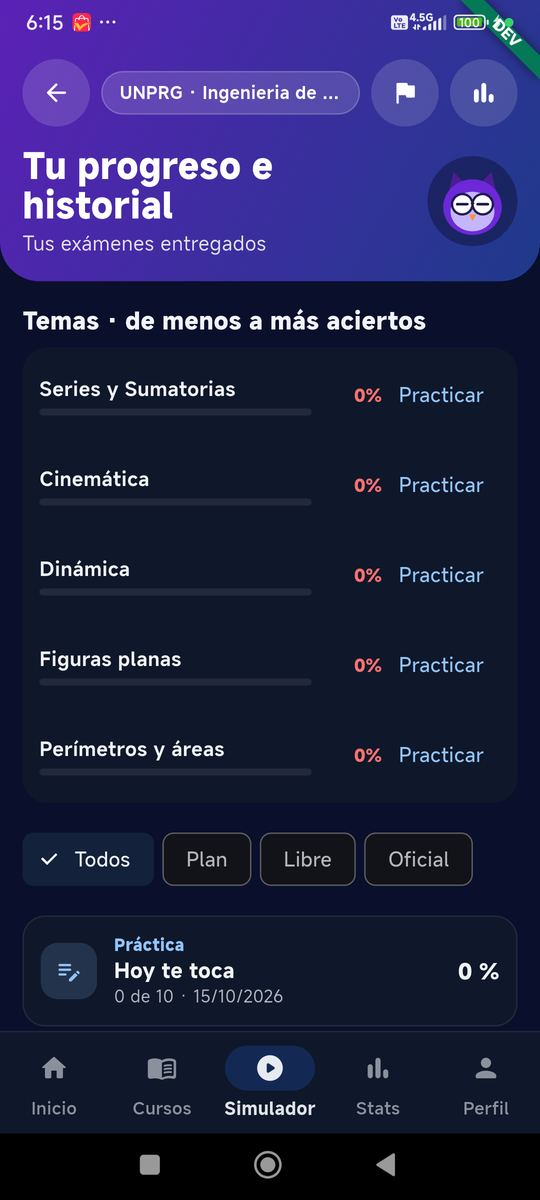
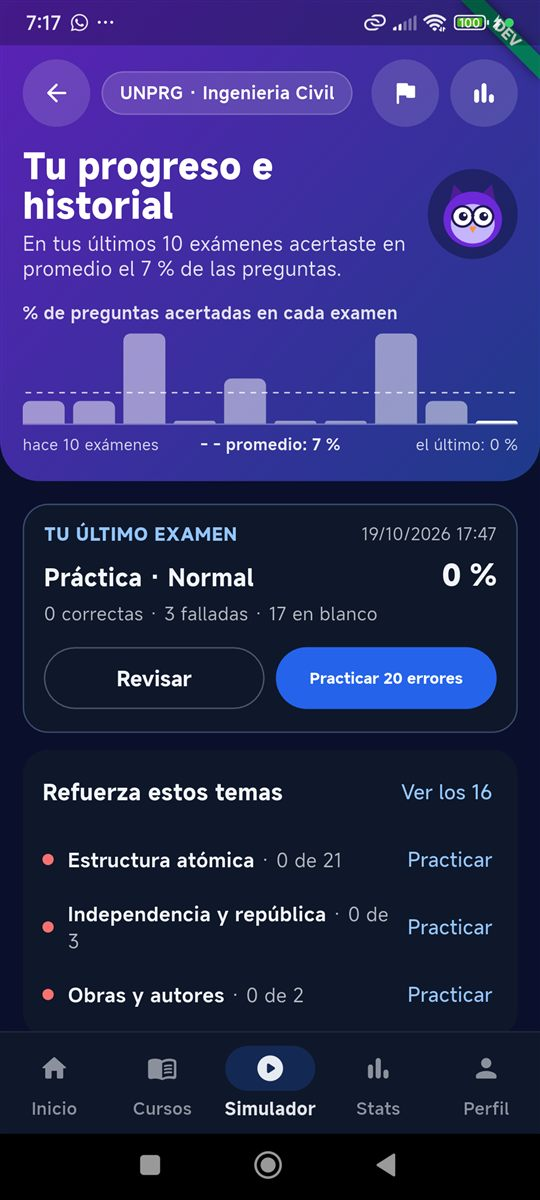
Historial del Simulador: totales exactos y ajuste «Exámenes en el historial»
- submitExamAttempt guarda simulatorSummary/current.totals (agregación la
  primera vez, incrementos después; totalsUpdate) con pruebas.
- SimulatorSettings.historyLimit (5 a 30, 10) con descripción; se corrige la
  de «Resultados que baja la app».
- Contrato del Simulador, PROGRESO, guía (capturas nuevas) y arquitectura.

diff --git a/docs/guias/guia_app.html b/docs/guias/guia_app.html
@@ -661,7 +661,7 @@ flowchart LR
 
 <div class="screen two" id="sim-despues">
   <figure><img src="img/sim-revision.jpg" alt="Revisión por pregunta con filtros, mapa y una pregunta fallada abierta"><figcaption>Revisión por pregunta: «Falladas 5 · En blanco 14 · Correctas 1 · Todas», el mapa de casillas y la pregunta 1 abierta («Marcaste A · era E», «TU RESPUESTA» en rojo).</figcaption></figure>
-  <figure><img src="img/sim-progreso.jpg" alt="Historial"><figcaption>Tu progreso e historial.</figcaption></figure>
+  <figure><img src="img/sim-progreso.jpg" alt="Tu progreso e historial: promedio, gráfico, último examen y temas a reforzar"><figcaption>Tu progreso e historial al abrir: promedio de los últimos 10, gráfico, «Tu último examen» y «Refuerza estos temas».</figcaption></figure>
   <div class="body">
     <h3>Revisión, Mis errores, historial y estadísticas</h3>
     <ul>
@@ -669,11 +669,15 @@ flowchart LR
       <li><b>Practicar mis errores</b>: examen «Mis errores» con lo que fallaste o dejaste en blanco, hasta 100 preguntas, mezcladas y en la misma versión. Lleva reloj (90 s por pregunta) solo si el original lo tenía.</li>
       <li><b>Tu progreso e historial</b>:
         <ul>
-          <li>«Temas · de menos a más aciertos»: hasta 8 temas con % y «Practicar», que abre la práctica con ese curso y tema.</li>
-          <li>Filtros «Todos / Plan / Libre / Oficial» y cada examen con «{c} de {t} · fecha» y su puntaje o %. Las fichas todavía no se pueden tocar.</li>
+          <li>Cabecera: el búho y «En tus últimos {n} exámenes acertaste en promedio el {p} % de las preguntas.» ({n} hasta 10). Con 2 o más exámenes, un gráfico «% de preguntas acertadas en cada examen»: una barra por examen (del más antiguo al último, resaltado), la línea punteada del promedio y «hace {n} exámenes · - - promedio: {p} % · el último: {u} %». La barra más alta llena el gráfico. La cabecera se va con el desplazamiento.</li>
+          <li>«TU ÚLTIMO EXAMEN»: título, fecha, % y «{c} correctas · {f} falladas · {b} en blanco»; «Revisar» abre su revisión y «Practicar {n} errores» (si hubo falladas o en blanco) abre «Mis errores» sin reloj.</li>
+          <li>«Refuerza estos temas»: los 3 temas con menos aciertos («{c} de {r}») con «Practicar»; «Ver los {n}» muestra todos y «Ver menos» los vuelve a ocultar.</li>
+          <li>Totales de todos tus exámenes: «exámenes», «preguntas» y «de acierto» (exactos aunque tengas miles: los suma el servidor).</li>
+          <li>«Historial · últimos {n}» · «toca para revisar»: {n} lo fija el admin («Exámenes en el historial», 10 de fábrica) <span class="chip info">ADMIN</span>. Filtros «Todos / Plan / Libre / Oficial» y cada examen con «{c} de {t} · fecha y hora» y su puntaje o %; tocarlo muestra «Abriendo la revisión…» con el búho y abre su revisión. Los exámenes más antiguos no se borran: siguen contando en los totales y Stats.</li>
           <li>Arriba, la bandera «Editar meta» y «Ver estadísticas».</li>
           <li>Vacío: «Aún no entregas exámenes en el Simulador.».</li>
         </ul></li>
+      <li style="list-style:none"><figure style="max-width:220px"><img src="img/sim-historial.jpg" alt="Totales e historial de los últimos 10 exámenes"><figcaption>Al bajar: totales y «Historial · últimos 10»; cada examen abre su revisión.</figcaption></figure></li>
       <li><b>Stats</b>: precisión, preguntas y simulacros por periodo, y cursos fuertes y por mejorar, calculados con tus resultados del servidor. Vacío: «Aún no hay estadísticas · Rinde tu primer simulacro…» con «Ir al Simulador».</li>
     </ul>
   </div>
@@ -1067,13 +1071,14 @@ flowchart LR
   <tr><td class="num">9</td><td>Las marcas y la pizarra se pierden al pausar. <s>Un examen del Simulador no se puede retomar después de cerrar la app.</s> Corregido: «Tienes un examen sin terminar · Retomar».</td><td>Simulador</td></tr>
   <tr><td class="num">10</td><td>Si falla la entrega automática al acabarse el tiempo, no hay forma de reintentar.</td><td>Simulador</td></tr>
   <tr><td class="num">11</td><td><s>«Hoy te toca» crea un examen nuevo en cada toque: tras un timeout puede quedar uno duplicado.</s> Corregido: mientras la sesión de hoy siga abierta, se devuelve la misma.</td><td>Simulador</td></tr>
-  <tr><td class="num">12</td><td>Las fichas del historial no se pueden tocar; la meta solo se edita desde el historial.</td><td>Simulador</td></tr>
+  <tr><td class="num">12</td><td><s>Las fichas del historial no se pueden tocar;</s> corregido: cada examen abre su revisión. La meta solo se edita desde el historial.</td><td>Simulador</td></tr>
   <tr><td class="num">13</td><td>El recordatorio diario solo guarda la hora: aún no hay notificaciones.</td><td>Simulador</td></tr>
 </table></div>
 
 <!-- ============================================================ CAMBIOS -->
 <h2 id="cambios">Historial de cambios</h2>
 <ul class="changelog">
+  <li><b>19-oct-2026</b> · «Tu progreso e historial» renovado: promedio de los últimos 10 exámenes y su gráfico en la cabecera, «Tu último examen» con «Revisar» y «Practicar N errores», los 3 temas más flojos con «Ver los N», totales exactos de todos los exámenes y los últimos 10 (ajuste del admin «Exámenes en el historial») con revisión al tocarlos. «Tus simulacros» y Stats cuentan todos los exámenes. Abrir una revisión muestra «Abriendo la revisión…».</li>
   <li><b>19-oct-2026</b> · Admin: cada ajuste de Configuración explica para qué sirve (41 descripciones nuevas). «Segundos entre guardados» acepta 0 para guardar solo por respuestas, al salir y al entregar. El Simulador lee el historial de resultados con una sola lectura; el alumno no ve cambios.</li>
   <li><b>19-oct-2026</b> · Candado del video renovado: tarjeta compacta con el degradado de la cabecera y el búho guiñando, «Desbloquea la explicación · Ganas +5 XP · te quedan 25 XP hoy», «Ver video · +5 XP» y «Premium». Ver el video completo da XP (5 por explicación, tope de 25 al día, una vez por pregunta, ajustables en el admin) y abre la explicación con el búho feliz y «¡Así se resuelve!».</li>
   <li><b>19-oct-2026</b> · Revisión por pregunta renovada (examen de parte, de dominio y Simulador): filtros «Falladas · En blanco · Correctas · Todas», mapa de casillas para saltar a cualquier pregunta, tarjeta que se entiende cerrada («Marcaste B · era C» y el inicio del enunciado), todas las alternativas marcadas al abrirla (rojo la tuya, verde la correcta, gris en blanco) y, en el Simulador, «Ver en la guía» por pregunta.</li>

diff --git a/functions/src/simulator_service.ts b/functions/src/simulator_service.ts
@@ -1,5 +1,5 @@
 import type { DocumentReference, Firestore, Transaction } from "firebase-admin/firestore";
-import { FieldValue } from "firebase-admin/firestore";
+import { AggregateField, FieldValue } from "firebase-admin/firestore";
 
 import {
   gradeFrozenAttempt,
@@ -683,6 +683,20 @@ export class SimulatorService {
         : await transaction.get(this.userRef(uid).collection("simulatorResults")
           .orderBy("submittedAtMs", "desc").limit(recentResultsMax));
       if (legacyResults !== undefined) metrics.readQuery(legacyResults.size);
+      // Totales acumulados (exámenes, preguntas, aciertos): la primera vez se
+      // suman los `simulatorResults` con una consulta de suma (1 lectura por
+      // cada 1 000 documentos); después, incrementos.
+      const storedTotals = summaryDoc.data()?.totals;
+      const totalsBase = isRecord(storedTotals)
+        ? undefined
+        : (await transaction.get(this.userRef(uid).collection("simulatorResults").aggregate({
+          exams: AggregateField.count(),
+          questions: AggregateField.sum("total"),
+          correct: AggregateField.sum("correct"),
+          incorrect: AggregateField.sum("incorrect"),
+          blank: AggregateField.sum("blank")
+        }))).data();
+      if (totalsBase !== undefined) metrics.readDocument();
       // «+N vs. anterior»: the score of the previous try at the same exam.
       const previousScore = best?.data()?.lastScore;
       if (typeof previousScore === "number") result.previousScore = previousScore;
@@ -762,7 +776,8 @@ export class SimulatorService {
           ...(result.byTopic.length > 0
             ? summaryUpdate(legacyTopics?.docs.map((doc) => [doc.id, doc.data()]), result.byTopic, topicCourses, now)
             : { schemaVersion: 1, updatedAtMs: now }),
-          recentResults: recentResultsUpdate(previousRecent, summary)
+          recentResults: recentResultsUpdate(previousRecent, summary),
+          totals: totalsUpdate(totalsBase === undefined ? undefined : { ...totalsBase, recent: previousRecent }, summary)
         },
         { merge: true }
       );
@@ -1608,6 +1623,64 @@ export function publicSimulatorContext(
 export function questionCourseIds(data: Record<string, unknown>, questions: readonly AttemptQuestionSnapshot[]): string[] {
   const meta = parseQuestionMeta(data.questionMeta);
   return questions.map((question) => meta.get(question.questionId)?.courseId ?? "");
+}
+
+function isRecord(value: unknown): value is Record<string, unknown> {
+  return value !== null && typeof value === "object" && !Array.isArray(value);
+}
+
+const totalNumber = (value: unknown): number => (typeof value === "number" && Number.isFinite(value) ? value : 0);
+
+/**
+ * `simulatorSummary/current.totals` tras un envío: con [base] (primera vez)
+ * valores absolutos = lo anterior + este examen; si no, incrementos. Por curso
+ * la primera vez se suma lo que hay en los resultados recientes (hasta 200).
+ */
+export function totalsUpdate(
+  base: { exams?: unknown; questions?: unknown; correct?: unknown; incorrect?: unknown; blank?: unknown; recent: readonly unknown[] } | undefined,
+  latest: Record<string, unknown>
+): Record<string, unknown> {
+  const courses = (value: unknown) => (Array.isArray(value) ? value.filter(isRecord) : []);
+  const own = courses(latest.byCourse);
+  if (base === undefined) {
+    const byCourse: Record<string, unknown> = {};
+    for (const course of own) {
+      if (typeof course.id !== "string") continue;
+      byCourse[course.id] = {
+        correct: FieldValue.increment(totalNumber(course.correct)),
+        incorrect: FieldValue.increment(totalNumber(course.incorrect)),
+        blank: FieldValue.increment(totalNumber(course.blank))
+      };
+    }
+    return {
+      exams: FieldValue.increment(1),
+      questions: FieldValue.increment(totalNumber(latest.total)),
+      correct: FieldValue.increment(totalNumber(latest.correct)),
+      incorrect: FieldValue.increment(totalNumber(latest.incorrect)),
+      blank: FieldValue.increment(totalNumber(latest.blank)),
+      byCourse
+    };
+  }
+  const byCourse = new Map<string, { correct: number; incorrect: number; blank: number }>();
+  for (const item of [...base.recent.filter(isRecord), latest]) {
+    for (const course of courses(item.byCourse)) {
+      if (typeof course.id !== "string") continue;
+      const sum = byCourse.get(course.id) ?? { correct: 0, incorrect: 0, blank: 0 };
+      byCourse.set(course.id, {
+        correct: sum.correct + totalNumber(course.correct),
+        incorrect: sum.incorrect + totalNumber(course.incorrect),
+        blank: sum.blank + totalNumber(course.blank)
+      });
+    }
+  }
+  return {
+    exams: totalNumber(base.exams) + 1,
+    questions: totalNumber(base.questions) + totalNumber(latest.total),
+    correct: totalNumber(base.correct) + totalNumber(latest.correct),
+    incorrect: totalNumber(base.incorrect) + totalNumber(latest.incorrect),
+    blank: totalNumber(base.blank) + totalNumber(latest.blank),
+    byCourse: Object.fromEntries(byCourse)
+  };
 }
 
 /** Cuántos resultados recientes guarda el resumen (el máximo de `resultsLimit`). */

diff --git a/lib/src/domain/simulator_settings.dart b/lib/src/domain/simulator_settings.dart
@@ -69,6 +69,7 @@ class SimulatorSettings {
     this.showExplanations = true,
     this.resultsLimit = 60,
     this.topicStatsLimit = 30,
+    this.historyLimit = 10,
   });
 
   static const defaults = SimulatorSettings();
@@ -112,6 +113,10 @@ class SimulatorSettings {
   static const minTopicStatsLimit = 5;
   static const maxTopicStatsLimit = 200;
 
+  /// Exámenes que muestra «Tu progreso e historial».
+  static const minHistoryLimit = 5;
+  static const maxHistoryLimit = 30;
+
   final List<PracticeSize> practiceSizes;
   final bool practiceTimerDefault;
   final bool practicePenalty;
@@ -123,6 +128,7 @@ class SimulatorSettings {
   final bool showExplanations;
   final int resultsLimit;
   final int topicStatsLimit;
+  final int historyLimit;
 
   factory SimulatorSettings.fromMap(Map<String, dynamic>? data) {
     if (data == null) return defaults;
@@ -156,6 +162,7 @@ class SimulatorSettings {
       showExplanations: data['showExplanations'] != false,
       resultsLimit: number('resultsLimit', defaults.resultsLimit),
       topicStatsLimit: number('topicStatsLimit', defaults.topicStatsLimit),
+      historyLimit: number('historyLimit', defaults.historyLimit),
     );
   }
 
@@ -171,6 +178,7 @@ class SimulatorSettings {
     bool? showExplanations,
     int? resultsLimit,
     int? topicStatsLimit,
+    int? historyLimit,
   }) => SimulatorSettings(
     practiceSizes: practiceSizes ?? this.practiceSizes,
     practiceTimerDefault: practiceTimerDefault ?? this.practiceTimerDefault,
@@ -183,6 +191,7 @@ class SimulatorSettings {
     showExplanations: showExplanations ?? this.showExplanations,
     resultsLimit: resultsLimit ?? this.resultsLimit,
     topicStatsLimit: topicStatsLimit ?? this.topicStatsLimit,
+    historyLimit: historyLimit ?? this.historyLimit,
   );
 
   Map<String, dynamic> toMap() => {
@@ -198,6 +207,7 @@ class SimulatorSettings {
     'showExplanations': showExplanations,
     'resultsLimit': resultsLimit,
     'topicStatsLimit': topicStatsLimit,
+    'historyLimit': historyLimit,
   };
 
   /// The first problem found, in Spanish for the editor, or null when valid.
@@ -226,6 +236,10 @@ class SimulatorSettings {
     if (resultsLimit < minResultsLimit || resultsLimit > maxResultsLimit) {
       return 'Resultados que baja la app: entre $minResultsLimit y '
           '$maxResultsLimit.';
+    }
+    if (historyLimit < minHistoryLimit || historyLimit > maxHistoryLimit) {
+      return 'Exámenes en el historial: entre $minHistoryLimit y '
+          '$maxHistoryLimit.';
     }
     if (topicStatsLimit < minTopicStatsLimit ||
         topicStatsLimit > maxTopicStatsLimit) {

diff --git a/docs/guias/arquitectura.html b/docs/guias/arquitectura.html
@@ -528,6 +528,7 @@ flowchart LR
 
 <h2 id="cambios">Historial de cambios</h2>
 <ul class="changelog">
+<li><b>19-oct-2026</b> · Totales del alumno en <code>simulatorSummary/current.totals</code> (<code>exams</code>, <code>questions</code>, <code>correct</code>, <code>incorrect</code>, <code>blank</code>, <code>byCourse</code>): <code>submitExamAttempt</code> los calcula la primera vez con una agregación sobre <code>simulatorResults</code> dentro de la transacción (1 lectura por cada 1 000 resultados) y después suma con <code>FieldValue.increment</code> (<code>totalsUpdate</code>). La app los usa en «Tus simulacros», Stats y el historial, y comparte una lectura del resumen entre resultados, totales y temas. Nuevo <code>{config}/simulator.historyLimit</code> (5 a 30, 10): exámenes que lista el historial; cada uno abre su revisión (<code>getExamAttempt</code> + reenvío idempotente, solo al tocar).</li>
 <li><b>19-oct-2026</b> · Resultados recientes del Simulador dentro de <code>simulatorSummary/current.recentResults</code> (200, los escribe <code>submitExamAttempt</code>): la app los lee con una lectura. <code>{config}/exam.saveEverySeconds</code> acepta 0 (sin guardado por tiempo). Todos los ajustes de Configuración del admin llevan descripción.</li>
 <li><b>19-oct-2026</b> · Menos lecturas por práctica: preguntas vistas en un documento por alumno (<code>examMemory/recent</code>, <code>exam_memory.ts</code>) en vez de uno por pregunta en <code>recentQuestions</code>, e índice de preguntas publicadas por curso (<code>iya-question-index-{env}</code>, <code>question_index.ts</code>, disparador <code>indexQuestions</code>) para elegir sin leer muestras de 40. Crear una práctica de 20: de 208 lecturas y 22 escrituras a 28 y 3.</li>
 <li><b>19-oct-2026</b> · XP por explicación con video: callable <code>claimExplanationXp({attemptId, questionId})</code> (dueño, intento entregado, pregunta no correcta) que otorga el evento <code>explanation_video</code> (id <code>explanation_{attemptId}_{questionId}</code>) con <code>amounts.explanationVideo</code> (5) y su tope propio <code>explanationVideoDailyCap</code> (25, en <code>xp/current.today.explained</code>); la app la llama solo tras ver el video completo (<code>RewardedUnlock.watch()</code> → <code>RewardedOutcome.earned</code>). Admin: dos ajustes en «Cómo gana XP el alumno».</li>

diff --git a/functions/test/simulator_summary.test.ts b/functions/test/simulator_summary.test.ts
@@ -3,7 +3,7 @@ import test from "node:test";
 
 import { FieldValue } from "firebase-admin/firestore";
 
-import { summaryUpdate, recentResultsMax, recentResultsUpdate } from "../src/simulator_service";
+import { summaryUpdate, recentResultsMax, recentResultsUpdate, totalsUpdate } from "../src/simulator_service";
 
 const courses = new Map([["t1", "alg"], ["t2", "alg"], ["t3", "geo"]]);
 
@@ -41,4 +41,18 @@ test("los últimos resultados van primero, sin repetir el intento y con tope", (
   assert.equal(next[1]?.attemptId, "a0");
   assert.equal(next[1]?.universityId, undefined);
   assert.equal(recentResultsUpdate(next, { attemptId: "a0", total: 3 }).filter((item) => item.attemptId === "a0").length, 1);
+});
+
+test("los totales se suman: absolutos la primera vez, incrementos después", () => {
+  const latest = { total: 20, correct: 5, incorrect: 3, blank: 12, byCourse: [{ id: "alg", correct: 5, incorrect: 3, blank: 12 }] };
+  const first = totalsUpdate({ exams: 13, questions: 230, correct: 50, incorrect: 40, blank: 140,
+    recent: [{ byCourse: [{ id: "alg", correct: 2, incorrect: 1, blank: 7 }, { id: "geo", correct: 1, incorrect: 0, blank: 0 }] }] }, latest);
+  assert.deepEqual(first, {
+    exams: 14, questions: 250, correct: 55, incorrect: 43, blank: 152,
+    byCourse: { alg: { correct: 7, incorrect: 4, blank: 19 }, geo: { correct: 1, incorrect: 0, blank: 0 } }
+  });
+  const next = totalsUpdate(undefined, latest);
+  assert.ok((next.exams as FieldValue).isEqual(FieldValue.increment(1)));
+  assert.ok((next.questions as FieldValue).isEqual(FieldValue.increment(20)));
+  assert.ok(((next.byCourse as Record<string, Record<string, FieldValue>>).alg!.blank!).isEqual(FieldValue.increment(12)));
 });

diff --git a/lib/src/domain/settings_catalog.dart b/lib/src/domain/settings_catalog.dart
@@ -799,10 +799,26 @@ final List<SettingsTopic> settingsTopics = [
         max: SimulatorSettings.maxResultsLimit,
         unit: 'resultados',
         help:
-            'Alimentan el historial, las estadísticas y «Hoy te toca». Cada '
-            'resultado es una lectura por sesión.',
+            'Cuántos resultados recientes trae la app para el plan de la semana '
+            'y el día a día de Stats. Llegan juntos en una sola lectura, así '
+            'que no cambian el costo. Los totales salen aparte y siempre son '
+            'exactos.',
         keywords: 'lecturas costo historial estadisticas',
         advanced: true,
+      ),
+      SettingSpec(
+        doc: SettingsDoc.simulator,
+        path: const ['historyLimit'],
+        question: '¿Cuántos exámenes muestra el historial del alumno?',
+        label: 'Exámenes en el historial',
+        min: SimulatorSettings.minHistoryLimit,
+        max: SimulatorSettings.maxHistoryLimit,
+        unit: 'exámenes',
+        help:
+            'Los últimos exámenes que ve el alumno en «Tu progreso e '
+            'historial»; cada uno abre su revisión. El gráfico usa como '
+            'máximo los últimos 10. Los demás no se borran.',
+        keywords: 'historial ultimos examenes progreso',
       ),
       SettingSpec(
         doc: SettingsDoc.simulator,

diff --git a/functions/test/simulator.emulator.test.ts b/functions/test/simulator.emulator.test.ts
@@ -264,6 +264,10 @@ test("XP: a practice gives session, fresh answers and streak once; repeats and r
   assert.equal(recent[0]?.attemptId, first.attemptId);
   assert.equal(recent[0]?.correct, 7);
   assert.equal(recent[0]?.universityId, undefined);
+  const summaryTotals = (await user.collection("simulatorSummary").doc("current").get()).data()?.totals as Record<string, unknown>;
+  assert.equal(summaryTotals.exams, 1);
+  assert.equal(summaryTotals.correct, 7);
+  assert.equal(summaryTotals.questions, 10);
   const award = await xp.afterAttempt(uid, first.attemptId);
   assert.deepEqual(award?.items.map((item) => [item.type, item.xp]), [
     ["simulator_session", 10],

diff --git a/PROGRESO.md b/PROGRESO.md
@@ -5,6 +5,7 @@
 _Última actualización: 2026-10-19_
 
 ## Estado actual
+- **«Tu progreso e historial» renovado y totales exactos (2026-10-19, rama `codex/historial-progreso`):** Kevin eligió la combinación 3 + 2 del lienzo https://claude.ai/artifact/1EWCP88CmP5aEmuVk1ErtZ. Functions: `submitExamAttempt` guarda `simulatorSummary/current.totals` (exámenes, preguntas, correctas, falladas, en blanco y por curso de todos los envíos): la primera vez con una agregación sobre `simulatorResults` dentro de la transacción y luego con incrementos (`totalsUpdate`); pruebas en `simulator_summary.test.ts` y en el emulador. Admin: ajuste «Exámenes en el historial» (`SimulatorSettings.historyLimit`, 5 a 30, 10 de fábrica) con su descripción, y la descripción de «Resultados que baja la app» corregida (ya no alimenta el historial). Se sigue guardando todo como antes. `submitExamAttempt` desplegada en TEST; los totales se crean en el primer envío de cada alumno. Guía v28 (capturas nuevas `sim-progreso.jpg` y `sim-historial.jpg`) y Arquitectura v33. Detalle de la app en `../iya-app/PROGRESO.md`.
 - **Resumen de resultados, guardado por tiempo opcional y descripciones en Configuración (2026-10-19, admin #112 / app #128, Functions desplegadas en TEST):** (1) `submitExamAttempt` guarda los últimos 200 resultados en `simulatorSummary/current.recentResults` (`recentResultsUpdate`; migra una vez desde `simulatorResults`) y la app los lee de ahí: una lectura en vez de hasta `resultsLimit` (60) tras cada entrega. (2) «Segundos entre guardados» acepta 0 = sin guardado por tiempo (admin `ExamSettings.minSaveEverySeconds` 0; app `ExamSaveScheduler` sin temporizador). (3) Los 86 ajustes de Configuración tienen descripción (`help`); se sumaron 41 y `settings_catalog_test` exige que todo ajuste nuevo la tenga. Pruebas: Functions 98 + emuladores 56; admin 170; app 477.
 - **Menos lecturas por práctica (2026-10-19, admin #111, desplegado en TEST):** preguntas vistas en un solo documento `examMemory/recent` (`functions/src/exam_memory.ts`, migración automática desde `recentQuestions`) y índice de preguntas por curso (`functions/src/question_index.ts`, colección `iya-question-index-{env}`, disparador `indexQuestions`, carga `tools/build_question_index.js`, 18 cursos y 1 432 preguntas en TEST). Crear una práctica de 20 pasó de 208 lecturas y 22 escrituras a 28 y 3 (0,6 s en vez de 1,5 a 3,4 s); total del servidor por práctica de 234/27 a 52/8. Reglas: `examMemory` solo servidor. Pruebas: `test/exam_memory.test.ts` (97 unitarias) y emuladores (56; la de estadísticas falla por orden también en `desarrollo`, ya existía). El cambio «claves congeladas» no se hizo: no ahorra (ver `docs/backend_costs.md`). Análisis: https://claude.ai/code/artifact/fee770b1-3315-4fa2-b42b-c29268f570b5
 - **Candado del video con XP (2026-10-19, admin #110 / app #126, desplegado en TEST):** Functions: evento `explanation_video` en `xp.ts` (`explanationGrant`, `afterExplanationVideo`, tope propio `explanationVideoDailyCap` en `today.explained`), callable `claimExplanationXp` (`parseClaimExplanationXp`), `XpAward.todayExplained/explanationDailyCap`; prueba en `test/xp.test.ts` (94 en verde) y en `test/ranking.emulator.test.ts` (intento real + clave congelada: la revisión no se guarda en el intento, la corrección sale de `answerKeys`). Validado en el teléfono: tarjeta, video de prueba completo, explicación con «¡Así se resuelve!» y «+5 XP»; el log `explanation_xp_claimed` registró `gained: 5`. Admin: `amounts.explanationVideo` (5) y `explanationVideoDailyCap` (25) en `xp_settings.dart` y en «Cómo gana XP el alumno» con «En la práctica»; etiqueta del evento y revertir descuenta `today.explained`. Contratos `xp_contract.md` y `ads_contract.md` (ambos repos), guía y arquitectura.

diff --git a/docs/simulator_contract.md b/docs/simulator_contract.md
@@ -192,8 +192,11 @@ tolerando `streakGraceDays` días sin práctica.
 ## Costo de lectura (Fase 2C de la reestructuración de costos, 2026-10-18)
 
 - `{config}/simulator.resultsLimit` (10 a 200, 60 de fábrica): resultados
-  recientes (`simulatorResults`) que baja la app; alimentan el historial, las
-  estadísticas y «Hoy te toca».
+  recientes que baja la app; alimentan el plan de la semana, «Hoy te toca» y
+  el día a día de Stats. Llegan en una sola lectura (`recentResults`).
+- `{config}/simulator.historyLimit` (5 a 30, 10 de fábrica): exámenes que
+  lista «Tu progreso e historial»; cada uno abre su revisión. El gráfico usa
+  como máximo los últimos 10. No borra nada: solo limita lo que se muestra.
 - `{config}/simulator.topicStatsLimit` (5 a 200, 30 de fábrica): temas de
   `simulatorTopicStats` que baja la app, los más practicados primero
   (`answered` descendente).
@@ -220,6 +223,14 @@ tolerando `streakGraceDays` días sin práctica.
   cada envío; la primera vez copia los de `simulatorResults` (que se sigue
   escribiendo para la ficha del alumno en el admin). La app lee de aquí los
   `resultsLimit` más recientes con una lectura en vez de uno por resultado.
+- Desde el 2026-10-19 también lleva `totals`: `{ exams, questions, correct,
+  incorrect, blank, byCourse: { [courseId]: { correct, incorrect, blank } } }`
+  de **todos** los exámenes entregados. La primera vez se calcula en la misma
+  transacción con una consulta de agregación sobre `simulatorResults` (una
+  lectura por cada 1 000 resultados) y se guarda en valores absolutos; desde
+  ahí cada envío suma con `FieldValue.increment` (`totalsUpdate`). La
+  tarjeta «Tus simulacros» y Stats usan estos totales (exactos aunque el
+  alumno tenga miles de exámenes); si faltan, suman los resultados bajados.
 - Los intentos (`attempts`) enviados llevan `expireAt` = fecha de envío +
   `{config}/exam.attemptRetentionDays` (180 de fábrica) y una política TTL los
   borra. `questionSnapshots`, `questionMeta` y `answers` quedan exentos de
